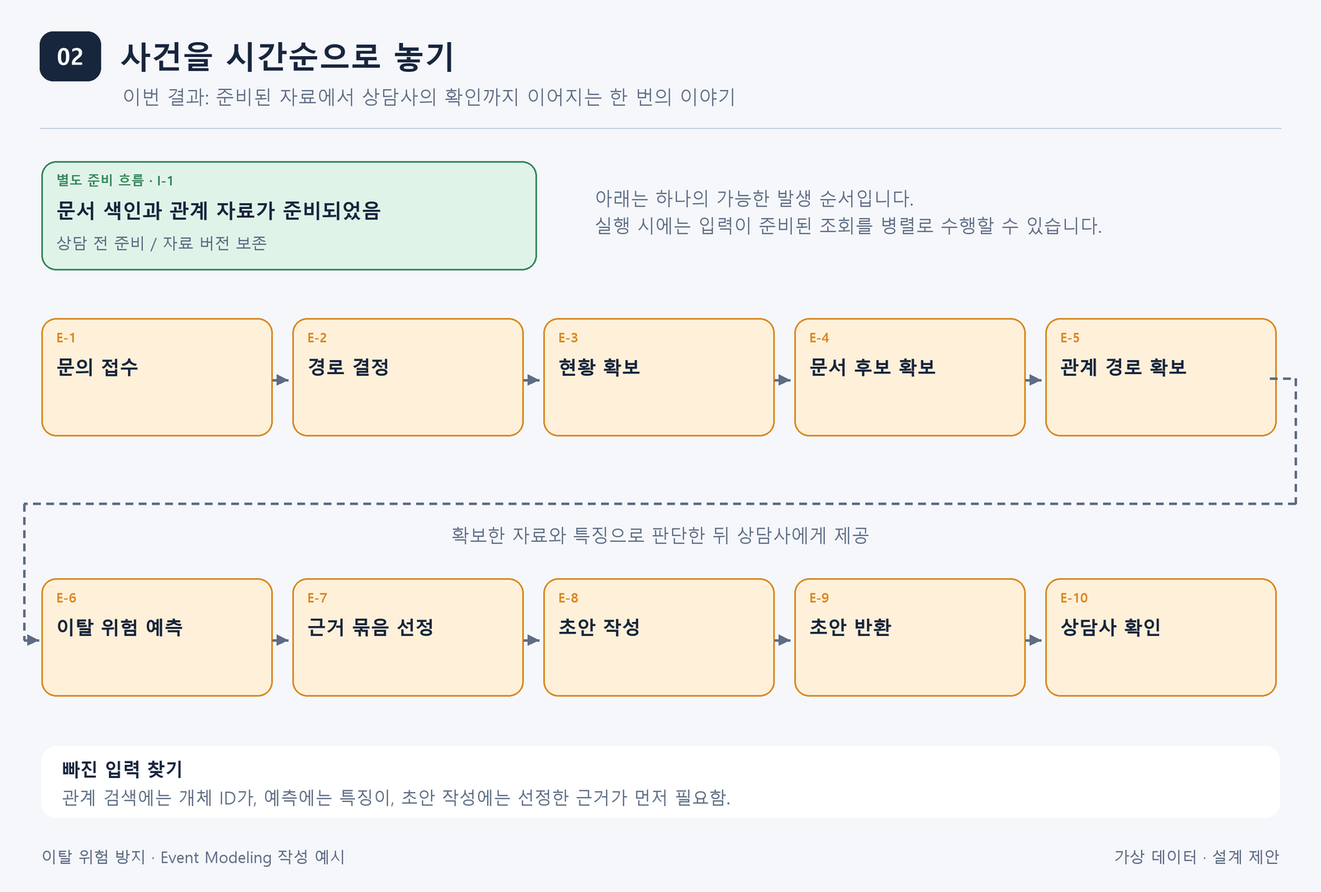
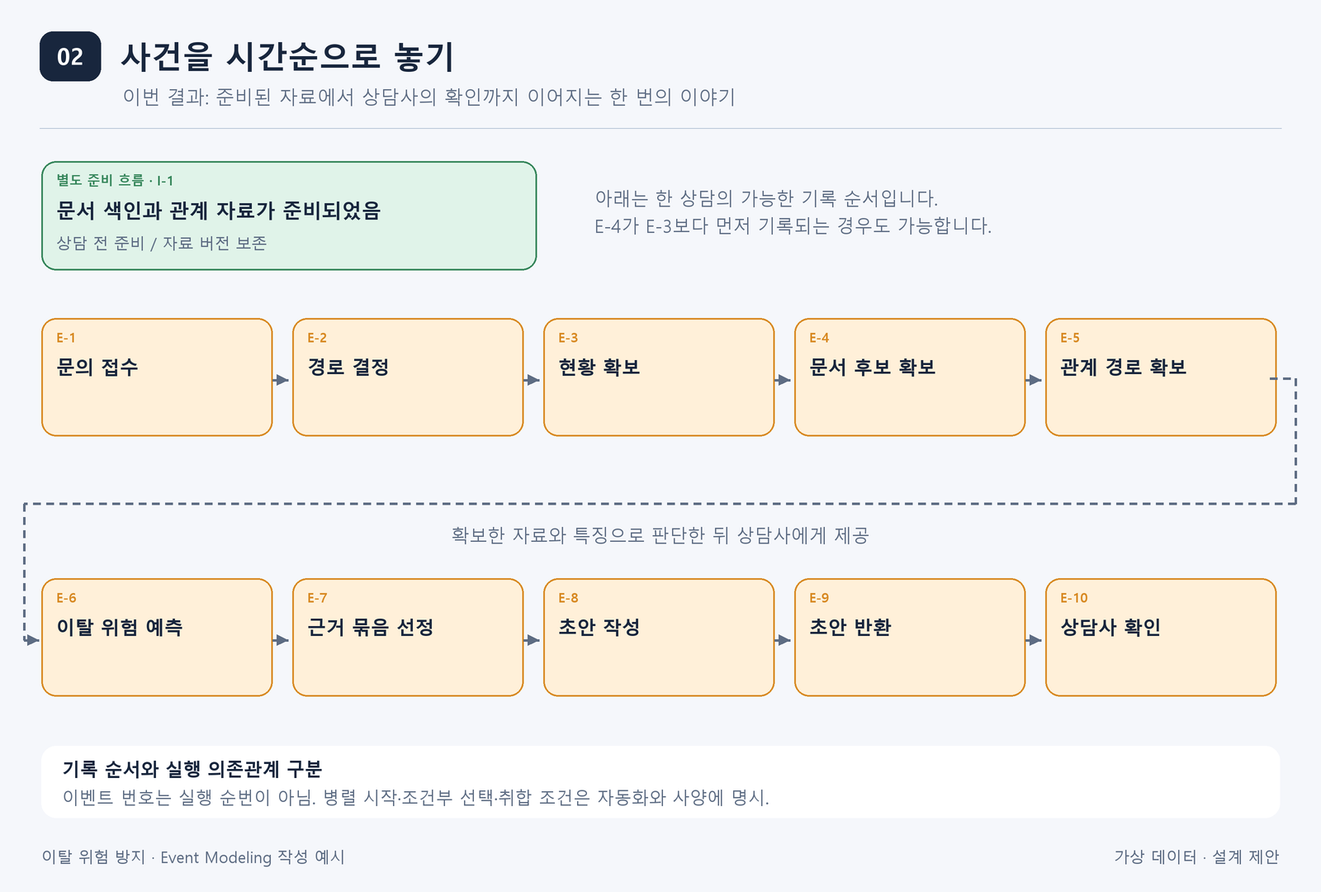
revise

Changed region(s): [[0.0312, 0.8556, 0.5625, 0.9167], [0.4375, 0.2139, 0.75, 0.275], [0.7812, 0.2444, 0.8125, 0.275]]

diff --git a/docs/plan/think/em/images/event-modeling-guide/render_node_discovery.py b/docs/plan/think/em/images/event-modeling-guide/render_node_discovery.py
@@ -65,7 +65,7 @@ def timeline():
     b = Board('02', '사건을 시간순으로 놓기', '이번 결과: 준비된 자료에서 상담사의 확인까지 이어지는 한 번의 이야기')
     box(b, 50, 195, 600, 132, '별도 준비 흐름 · I-1', '문서 색인과 관계 자료가 준비되었음',
         '상담 전 준비 / 자료 버전 보존', 'green', 24)
-    b.text(720, 225, '아래는 하나의 가능한 발생 순서입니다.\n실행 시에는 입력이 준비된 조회를 병렬로 수행할 수 있습니다.',
+    b.text(720, 225, '아래는 한 상담의 가능한 기록 순서입니다.\nE-4가 E-3보다 먼저 기록되는 경우도 가능합니다.',
            22, C['muted'])
     top = [('E-1', '문의 접수'), ('E-2', '경로 결정'), ('E-3', '현황 확보'),
            ('E-4', '문서 후보 확보'), ('E-5', '관계 경로 확보')]
@@ -80,7 +80,7 @@ def timeline():
     b.line([(1538, 458), (1569, 458), (1569, 610), (29, 610), (29, 775), (47, 775)],
            arrow=True, dashed=True)
     b.text(800, 633, '확보한 자료와 특징으로 판단한 뒤 상담사에게 제공', 22, C['muted'], anchor='center')
-    b.note('빠진 입력 찾기', '관계 검색에는 개체 ID가, 예측에는 특징이, 초안 작성에는 선정한 근거가 먼저 필요함.')
+    b.note('기록 순서와 실행 의존관계 구분', '이벤트 번호는 실행 순번이 아님. 병렬 시작·조건부 선택·취합 조건은 자동화와 사양에 명시.')
     b.save('node-02-timeline')
 
 
@@ -123,17 +123,17 @@ def routing():
     box(b, 50, 200, 1500, 135, 'U-1 · Human', '연회비 부담과 장보기 혜택을 확인하고 추가 소비 없는 초안을 요청',
         '회원 M-204 / 상담 S-104', 'white', 25)
     box(b, 450, 397, 700, 143, 'A-1 → C-2 · 생성형 AI + 규칙 기반 코드', '질문 해석 → 실행할 경로와 선택 이유 확정',
-        '권한과 입력 확인 / 필요한 경로만 선택', 'blue', 24)
+        '필수·보조 구분 / 필요한 입력·대기 시간도 저장', 'blue', 24)
     b.line([(800, 335), (800, 392)], arrow=True)
-    data = [('수치·상태', '정형검색', '카드·상품·사용액'),
-            ('조건·발언', '벡터검색', '혜택 안내·이전 상담'),
-            ('적용 문서 연결', '그래프검색', '고객→카드→상품→문서'),
-            ('고객 이탈 가능성', '예측형 AI', '이용 추이·보유·상담 이력')]
+    data = [('수치·상태 필요 → 선택', '정형검색 · C-3', '이번 질문: 필수'),
+            ('조건·발언 필요 → 선택', '벡터검색 · C-4', '이번 질문: 필수'),
+            ('문서 연결 확인 필요 → 선택', '그래프검색 · C-5', '이번 질문: 필수'),
+            ('이탈 판단 필요 → 선택', '예측형 AI · C-6', '이번 질문: 보조')]
     for i, (label, title, detail) in enumerate(data):
         x = 50 + i * 380
         b.line([(800, 540), (800, 578), (x + 175, 578), (x + 175, 626)], arrow=True)
         box(b, x, 632, 350, 184, label, title, detail, 'green' if i < 3 else 'purple', 25)
-    b.note('선택과 실행 순서는 별개', '정형·문서 조회는 병렬 가능. 관계와 예측은 필요한 ID·특징이 준비된 뒤 실행.')
+    b.note('다른 질문이면 다른 계획', '사용액만 물으면 C-3만 선택. 선택하지 않은 경로는 실행하지도, 취합할 때 기다리지도 않음.')
     b.save('node-03-routing')
 
 
@@ -147,9 +147,9 @@ def contracts():
          '고객 정보계 조회', 'E-3', '고객 현황 확보', 'CARD-204 / 420,000원'),
         ('문서 경로 선택', '질의·회원·접근 조건', 'C-4 · 규칙 기반 코드', '문서 후보를\n확보하라',
          '벡터 저장소 검색', 'E-4', '문서 후보 확보', 'GUIDE-DEMO / H-17'),
-        ('개체 ID 준비', '회원·카드·상품 ID', 'C-5 · 규칙 기반 코드', '관계 경로를\n확보하라',
+        ('선택 + C-3 ID 준비', '회원·카드·상품 ID', 'C-5 · 규칙 기반 코드', '관계 경로를\n확보하라',
          '관계 저장소 탐색', 'E-5', '관계 경로 확보', '상품→안내 문서 + 원천'),
-        ('예측 특징 준비', '이용 추이·보유·상담', 'C-6 · 예측형 AI', '고객 이탈 위험을\n예측하라',
+        ('선택 + 특징 준비', 'C-3 이용·보유·상담 집계', 'C-6 · 예측형 AI', '고객 이탈 위험을\n예측하라',
          'CHURN-DEMO/v1 추론', 'E-6', '고객 이탈 위험 예측', '90일 내 82% / 높음'),
     ]
     for x, d in zip(xs, columns):
@@ -162,8 +162,41 @@ def contracts():
     b.save('node-04-contracts')
 
 
+def execution():
+    b = Board('04', '병렬 실행과 조건부 분기',
+              '보조 실행 흐름도 · 화살표는 입력 의존관계 · 이번 복합 질문의 계획')
+    box(b, 50, 190, 1500, 125, '화면/자동화 · 문의 접수 / 담당자 유형: 규칙 기반 코드',
+        'E-2 실행 계획 확인 → 선택한 경로만 시작',
+        'C-3·C-4·C-5 필수 / C-6 보조 / 권한 확인 완료', 'blue', 26)
+    # Two independent starts; C-5 and C-6 depend only on C-3 inputs.
+    b.line([(460, 315), (460, 357)], arrow=True)
+    b.line([(1280, 315), (1280, 357)], arrow=True)
+    box(b, 50, 365, 800, 135, '고객 정보 · 규칙 기반 코드', 'C-3 고객 현황·예측 특징 확보',
+        '카드·상품 ID / 이용 추이·보유 기간·상담 정확 집계', 'green', 25)
+    box(b, 1060, 365, 490, 135, '지식·관계 · 규칙 기반 코드', 'C-4 문서 후보 검색',
+        '질문·회원·접근 조건으로 시작', 'green', 25)
+    b.line([(450, 500), (450, 530), (245, 530), (245, 554)], arrow=True)
+    b.line([(450, 530), (670, 530), (670, 554)], arrow=True)
+    box(b, 50, 560, 390, 158, '지식·관계 · 규칙 기반 코드', 'C-5 관계 검색',
+        'C-3의 카드·상품 ID 필요\nC-4 완료를 기다리지 않음', 'blue', 25)
+    box(b, 465, 560, 390, 158, '상담 판단 · 예측형 AI', 'C-6 이탈 예측',
+        'C-3의 정확한 특징 필요\nC-5 완료를 기다리지 않음', 'purple', 25)
+    box(b, 1060, 560, 490, 158, '대안 흐름 · 규칙 기반 코드', '실패했을 때의 선택',
+        '필수 경로 실패 → 초안 보류\n예측 실패·5초 초과 → 예측 보류', 'gray', 25)
+    # Explicit C-3 result contribution, alongside C-4/C-5/C-6 outcomes.
+    b.line([(850, 432), (955, 432), (955, 750), (810, 750)], arrow=False)
+    b.line([(1305, 500), (1580, 500), (1580, 750), (810, 750)], arrow=False)
+    b.line([(245, 718), (245, 750), (810, 750)], arrow=False)
+    b.line([(660, 718), (660, 750), (810, 750), (810, 760)], arrow=True)
+    box(b, 50, 765, 1500, 128, '상담 판단 · 규칙 기반 코드 / C-7 시작 조건',
+        '필수 C-3·C-4·C-5 완료 + 보조 C-6 완료 또는 보류 → 근거 선정 요청',
+        '선택하지 않은 경로는 대기 대상에서 제외 / 필수 근거가 없으면 선정 단계에서도 보류', 'orange', 25)
+    b.note('조건은 자동화와 사양에 연결', '타임라인의 대체물이 아님. 정상·예측 보류·필수 자료 실패는 각각 별도 시나리오로 확인.')
+    b.save('node-04-execution')
+
+
 def merge():
-    b = Board('05', '결과를 취합하고 화면에 연결하기', '이번 결과: 근거 묶음 → 저장된 초안 → 읽기 모델 → 같은 U-3 화면')
+    b = Board('05', '결과를 취합하고 화면에 연결하기', '정상 시나리오 · 선택한 필수 경로 완료 + 보조 예측 완료 또는 보류 후 C-7 시작')
     data = [('E-3 · 고객 사실', '전월 사용액 420,000원', '기준월 · 집계 정의'),
             ('E-4 · 문서·발언', '안내 문단 / H-17', '조건 확인 · 추가 소비 거절'),
             ('E-5 · 적용 문서 연결', 'P-01 → GUIDE-DEMO', '연결마다 원천 보존'),
@@ -183,7 +216,7 @@ def merge():
         box(b, x, 640, 480, 220, label, title, detail, ['blue', 'green', 'white'][i], 25)
         if i < 2:
             b.line([(x + 480, 748), (x + 505, 748)], arrow=True)
-    b.note('반환과 확인의 후속 연결', '서버 반환 완료 → C-9 → E-9   /   U-3 확인 버튼 → C-10 → E-10')
+    b.note('결과가 준비되지 않은 경우', '예측 보류는 값 없이 상태를 전달. 필수 근거 누락·충돌은 선정 보류 → U-3에 사유 표시, 초안 없음.')
     b.save('node-05-merge')
 
 
@@ -221,10 +254,14 @@ def boundaries():
 def specs():
     b = Board('07', '구체적인 예시로 사양 정하기', '이번 결과: 커맨드 또는 읽기 모델에 연결한 정상·예외 기준')
     data = [
-        ('C-7 · 근거 선정', '정상 취합', 'Given  현황·유효 문단·관계 경로\nWhen   근거 선정 요청\nThen   R-01 + 추가 소비 거절 제약'),
-        ('C-6 · 이탈 예측', '모델 연결 실패', 'Given  모델 미연결 또는 시간 초과\nWhen   고객 이탈 위험 예측 요청\nThen   확률·등급 없음 · 확인 필요'),
-        ('C-9 · 반환 이력', '같은 요청 재시도', 'Given  Q-301 반환 이력 한 건\nWhen   같은 완료 기록 재시도\nThen   E-9 한 건 · 새 E-8 없음'),
-        ('V-3 · 읽기 모델', '반환과 확인 구별', 'Given  E-9 있음 · E-10 없음\nThen   반환 완료 · 확인 전\n         확인 완료로 표시하지 않음'),
+        ('C-2 · 질문 해석·경로 선택', '사용액만 물으면 C-3만 선택',
+         'Given  지난달 사용액 질문\nWhen   경로 결정 요청\nThen   C-3 선택 / 나머지는 선택하지 않음'),
+        ('C-7 · 근거 선정', '완료 순서가 달라도 같은 근거',
+         'Given  같은 결과 · E-3/E-4 기록 순서만 다름\nWhen   취합 조건 충족 후 근거 선정 요청\nThen   같은 R-01 / 계획별 중복 선정 없음'),
+        ('C-6 · 보조 이탈 예측', '시간 초과이면 예측 보류',
+         'Given  예측 요청 후 5초 초과\nWhen   예측 대기 종료\nThen   보류 기록 / 확률·등급 없이 진행'),
+        ('V-3 · 읽기 모델', '필수 자료 실패이면 초안 보류',
+         'Given  C-5 실패 / 필수 자료 확보 중단\nThen   연결 확인 필요 표시\n         초안 없음 / E-7·E-8 없음'),
     ]
     for i, (label, title, detail) in enumerate(data):
         box(b, 50 + (i % 2) * 765, 215 + (i // 2) * 335, 735, 285,
@@ -234,6 +271,6 @@ def specs():
 
 
 if __name__ == '__main__':
-    for render in [scope, events, timeline, storyboard, routing, contracts, merge, boundaries, specs]:
+    for render in [scope, events, timeline, storyboard, routing, contracts, execution, merge, boundaries, specs]:
         render()
         print('rendered:', render.__name__)

diff --git a/docs/plan/think/em/이탈위험방지-이벤트모델링-작성가이드.md b/docs/plan/think/em/이탈위험방지-이벤트모델링-작성가이드.md
@@ -87,13 +87,21 @@
 
 ![사전 준비와 상담 이벤트의 시간표](./images/event-modeling-guide/node-02-timeline.png)
 
-위 그림의 중심은 **한 상담에서 실제로 일어났다고 가정한 사건의 순서**입니다.  
+위 그림의 중심은 **한 상담에서 실제로 일어났다고 가정한 사건의 기록 순서**입니다.  
 조회가 가능한 문서 색인과 관계 자료는 상담 전에 준비되어 있어야 하므로 위쪽에 따로 놓았습니다.
 
-시간표에 앞뒤로 놓인 작업을 구현에서도 모두 순차 실행해야 하는 것은 아닙니다.  
-예를 들어 고객 현황 조회와 문서 검색은 필요한 입력이 갖춰졌다면 함께 실행할 수 있습니다.  
-반면 관계 탐색에 카드와 상품 ID가 필요하다면 고객 현황을 확인한 뒤 실행해야 합니다.  
-예측에도 이용 추이·보유 기간·상담 이력 등 특징이 필요하므로 해당 자료가 먼저 준비되어야 합니다.
+**타임라인에 나란히 놓였다고 해서 작업을 하나씩 실행해야 하는 것은 아닙니다.**  
+E-3 다음에 E-4를 그렸지만, 문서 검색이 먼저 끝났다면 E-4가 E-3보다 앞에 놓일 수도 있습니다.  
+이벤트 번호는 카드를 찾기 위한 이름이며 실행 순서를 강제하는 번호가 아닙니다.
+
+Event Modeling에서도 병렬 실행과 조건부 분기를 다룹니다.  
+다만 기본 타임라인에는 한 번의 구체적인 이야기를 놓고, 다른 선택과 결과는 별도 시나리오로 설명합니다.  
+무엇을 동시에 시작할 수 있는지, 어떤 조건에서 다른 경로를 고르는지는 자동화의 시작 조건과 사양에 적습니다.  
+[공식 설명의 UX Concurrency 항목](https://eventmodeling.org/posts/what-is-event-modeling/)도  
+다른 실행 순서를 사양으로 표현하고 중요한 대안 흐름을 모델에 추가하도록 설명합니다.
+
+이번 사례의 경로 선택은 3단계에서, 병렬 실행과 입력 의존관계는 4단계에서 구체화하겠습니다.  
+결과를 어디까지 기다릴지는 5단계에서 정하고, 7단계에서는 조건을 바꾼 예시로 확인하겠습니다.
 
 이제 카드 사이에서 빠진 입력을 찾을 수 있습니다.  
 “관계 경로가 확보되었다”는 사실 앞에는 탐색할 개체가 있어야 하고,  
@@ -132,11 +140,21 @@
 
 질문을 해석하는 일은 생성형 AI가 도울 수 있습니다.  
 실행 가능한 경로와 권한, 필요한 입력을 확인해 계획을 확정하는 일은 규칙 기반 코드가 맡습니다.  
-계획에는 어떤 경로를 선택했는지뿐 아니라 **어떤 질문에 답하려고 선택했는지**도 남깁니다.
+계획에는 어떤 경로를 선택했는지뿐 아니라 **어떤 질문에 답하려고 선택했는지**도 남깁니다.  
+각 경로에 필요한 입력, 반드시 성공해야 하는지, 기다릴 시간도 함께 정합니다.
 
 여기서 라우팅은 네 경로 중 하나만 고르는 일이 아닙니다.  
 복합 질문에는 여러 경로를 배정하고, 간단한 질문에는 필요한 경로만 배정하는 것입니다.  
 관계가 단순한 카드·상품 조인으로 충분하다면 정형 조회에서 끝낼 수도 있습니다.
+
+예를 들어 사용액만 묻는 질문에는 C-3만 선택합니다. 이때 C-4·C-5·C-6은 ‘선택하지 않음’으로 남깁니다.  
+혜택 조건을 묻는다면 C-3과 C-4를 선택하고, 상품과 적용 문서의 연결 확인이 필요할 때 C-5도 선택합니다.  
+이탈 가능성을 묻거나 이번처럼 해지 상담을 지원하는 경우에는 C-6도 선택합니다.  
+예측을 선택했더라도 모델이나 입력을 사용할 수 없다면 예측을 보류하고 그 이유를 남깁니다.
+
+이번 복합 질문에서는 C-3·C-4·C-5를 **필수 경로**, C-6을 **보조 경로**로 정하겠습니다.  
+고객과 적용 문서를 확인하지 못하면 초안 작성을 멈추지만, 예측이 없어도 확보한 근거로 상담을 지원할 수 있다는 뜻입니다.  
+이 구분은 이 사례의 업무 규칙입니다. 예측값 자체를 요청한 질문에서는 예측이 필수 결과가 될 수 있습니다.
 
 ## 4단계. 시작 행동을 커맨드와 결과 이벤트로 연결합니다
 
@@ -145,7 +163,7 @@
 “고객 현황을 확보하라”, “관계 경로를 확보하라”처럼 작업 의도를 나타내는 카드가 커맨드입니다.
 
 먼저 시작 버튼 U-1을 문의 접수 C-1에 연결합니다. 회원·질문·상담사를 확인하고 저장하면 E-1이 남습니다.  
-이후 자동화가 경로 결정 C-2를 요청하고, 선택 경로와 이유를 상담에 저장하면 E-2가 남습니다.  
+이후 자동화가 경로 결정 C-2를 요청하고, 선택 경로와 이유·실행 조건을 상담에 저장하면 E-2가 남습니다.  
 아래 그림은 이 계획에 따라 실행할 네 가지 작업을 펼친 것입니다.
 
 ![자동화·커맨드·결과 이벤트로 이어지는 네 조회 슬라이스](./images/event-modeling-guide/node-04-contracts.png)
@@ -153,6 +171,7 @@
 정형 현황 확보 C-3은 회원 M-204와 조회 기준일을 받습니다.  
 규칙 기반 코드가 고객 정보계에 조회를 요청하고, 카드 CARD-204와 상품 P-01,  
 전월 승인 사용액 420,000원과 기준월을 받습니다.  
+예측도 선택했다면 이용 추이·보유 기간·기준일 이전의 해지 관련 상담 건수까지 함께 확보합니다.  
 이 결과를 상담에 사용할 현황으로 저장하면 “고객 현황이 확보되었음” E-3이 남습니다.
 
 **정형검색**은 정확한 조건으로 상태와 숫자를 확인하는 데 씁니다.  
@@ -181,7 +200,8 @@ P-01이 GUIDE-DEMO/v1을 적용 안내로 참조한다”는 경로를 반환합
 
 이탈 위험 예측 C-6에는 고객의 이용 추이, 카드 보유 기간, 해지 관련 상담 이력을 전달합니다.  
 이 예시에서는 “최근 6개월 월 승인액 감소”, “보유 기간 24개월”, “관련 문의 3회”라는 가상 특징을 사용합니다.  
-이용 추이와 보유 기간은 고객 정보계의 기준시점별 조회에서, 문의 횟수는 H-15·H-16·H-17의 집계에서 가져옵니다.  
+이 특징은 C-3에서 고객 정보계의 기준시점별 조회와 상담 기록의 정확한 집계로 준비합니다.  
+이 예시의 집계 대상은 2026-08의 H-15·H-16·H-17입니다. 벡터 검색의 상위 결과 개수를 문의 횟수로 쓰지는 않습니다.  
 모든 특징은 예측 기준일까지만의 자료로 구성하며 이후 해지 결과를 입력에 섞지 않습니다.
 
 예측형 AI는 향후 90일 이내 이탈 확률 82%와 위험 등급 ‘높음’을 반환한다고 가정하겠습니다.  
@@ -192,9 +212,30 @@ P-01이 GUIDE-DEMO/v1을 적용 안내로 참조한다”는 경로를 반환합
 이처럼 **하나의 시작 조건에서 요청과 결과까지 이어지는 연결**이 슬라이스입니다.  
 각 슬라이스에 입출력과 담당자 유형을 붙이면 내부에서 필요한 처리 책임도 구체적으로 드러납니다.
 
+### 어떤 작업을 함께 시작할 수 있을까요?
+
+이제 슬라이스의 시작 조건을 서로 비교해 보겠습니다.  
+C-3은 회원과 조회 기준일이 있으면 시작할 수 있고, C-4는 질문·회원·접근 조건이 있으면 시작할 수 있습니다.  
+따라서 권한 확인과 경로 결정이 끝나면 두 작업을 함께 시작할 수 있습니다.  
+이때 C-4는 상품이 확정되기 전의 후보 검색이며, 실제 적용 여부는 뒤에서 상품과 연결해 검사합니다.
+
+반면 C-5에는 C-3에서 얻은 카드·상품 ID가 필요합니다.  
+C-6도 C-3에서 준비한 예측 특징이 있어야 합니다. 따라서 두 작업은 각 입력이 준비된 뒤 시작합니다.  
+C-5와 C-6 사이에는 선후관계가 없으므로 함께 실행할 수 있고, 이때 C-4는 아직 검색 중일 수도 있습니다.
+
+![선택 경로의 병렬 실행과 입력 의존관계를 보여 주는 보조 흐름도](./images/event-modeling-guide/node-04-execution.png)
+
+이 그림은 2단계의 이벤트 타임라인을 보완하는 **실행 흐름도**입니다.  
+화살표는 사건의 기록 순서가 아니라 다음 작업에 필요한 입력과 시작 조건을 뜻합니다.  
+모든 작업에는 ‘계획에서 선택한 경로인가?’라는 조건이 먼저 붙습니다. 선택하지 않은 작업은 시작하지 않습니다.
+
+처음 모델링할 때는 각 자동화 옆에 다음 세 가지를 적으면 됩니다.  
+“언제 시작하는가?”, “어떤 입력을 기다리는가?”, “실패하면 어디로 이어지는가?”입니다.  
+이 질문에 답하면 병렬 실행과 조건부 분기도 화면·커맨드·이벤트의 연결 안에서 설명할 수 있습니다.
+
 ## 5단계. 결과를 취합하고 읽기 모델로 화면에 연결합니다
 
-네 경로의 결과가 모였습니다.  
+정상 시나리오에서는 선택한 네 경로의 결과가 모두 모였습니다.  
 그렇다면 이 내용을 모두 생성형 AI에 넘겨 “알아서 답해 달라”고 하면 될까요?  
 먼저 각 결과가 어떤 주장에 쓰일 수 있는지 구분해야 합니다.  
 숫자와 정책 문장, 관계 경로, 이탈 예측값은 서로 다른 일을 하기 때문입니다.
@@ -206,6 +247,28 @@ P-01이 GUIDE-DEMO/v1을 적용 안내로 참조한다”는 경로를 반환합
 상담사는 이를 고객의 실제 발언·상품 조건과 함께 살펴보며 대응 방향을 정합니다.
 
 ![네 결과를 취합해 초안을 만들고 읽기 모델로 화면에 연결하는 과정](./images/event-modeling-guide/node-05-merge.png)
+
+### 어디까지 기다린 뒤 취합할까요?
+
+결과 취합은 항상 네 경로를 기다리는 작업이 아닙니다.  
+먼저 E-2의 실행 계획을 읽고, **선택한 경로의 상태만** 확인합니다.  
+사용액 질문으로 C-3만 선택했다면 C-3의 결과가 준비되는 대로 취합할 수 있습니다.
+
+이번 복합 질문에서는 필수인 C-3·C-4·C-5가 완료되고, 보조인 C-6이 완료되거나 보류되면 C-7을 요청합니다.  
+예측이 실행 중이면 정해 둔 시간까지만 기다립니다. 설명용으로 경로별 대기 시간을 요청 후 5초로 정하겠습니다.  
+선행 입력이 필요한 경로의 시간은 그 경로를 실제 요청한 순간부터 셉니다. 이 값은 운영 목표에 맞춰 조정할 설계값입니다.
+
+예측이 실패하거나 5초를 넘기면 ‘예측이 보류되었음’과 사유를 남기고, 예측값 없이 취합을 계속합니다.  
+처음부터 예측을 선택하지 않은 상태와 선택했지만 예측할 수 없었던 상태는 구분해 표시합니다.  
+필수 경로가 실패하거나 시간을 넘기면 ‘필수 자료 확보가 중단되었음’을 남기고 초안 작성으로 넘어가지 않습니다.  
+선행 작업이 실패해 시작하지 못한 경로도 입력 부족 사유를 남겨, 계속 대기하는 상태로 두지 않습니다.
+
+조회가 정상 종료되어도 빈 결과이거나 적용 가능한 근거가 없을 수 있습니다.  
+C-7이 필수 근거의 누락·충돌을 확인하면 ‘근거 선정이 보류되었음’을 기록하고 상담사에게 확인할 항목을 보여 줍니다.  
+이때 U-3에는 초안 대신 보류 사유를 표시하며 E-7·E-8은 만들지 않습니다.
+
+동시에 도착한 결과 때문에 같은 취합을 두 번 시작하지 않도록 상담 ID와 실행 계획 버전으로 중복을 확인합니다.  
+대기 종료 후 늦게 도착한 결과는 이미 만든 초안에 몰래 섞지 않습니다. 재실행하면 새 계획 버전의 결과로 취합합니다.
 
 ### 어떤 결과를 함께 사용할까요?
 
@@ -226,7 +289,7 @@ P-01이 GUIDE-DEMO/v1을 적용 안내로 참조한다”는 경로를 반환합
 
 ### 취합한 결과가 어떻게 화면의 초안이 될까요?
 
-초안 작성 C-8은 선정된 근거 R-01과 이탈 예측 결과를 받습니다.  
+초안 작성 C-8은 선정된 근거 R-01과 이탈 예측 결과 또는 예측을 제공하지 못한 상태를 받습니다.  
 이탈 위험이 높게 예측되더라도 고객이 거절한 추가 소비를 권하지 않고, 고객의 부담을 줄일 상담 방향을 찾습니다.  
 생성형 AI가 문장을 만들고 규칙 기반 코드가 근거 연결을 검사한 뒤 DRAFT-01/v1로 저장합니다.  
 저장이 끝나면 “초안이 작성되었음” E-8이 남습니다.  
@@ -284,7 +347,17 @@ P-01이 GUIDE-DEMO/v1을 적용 안내로 참조한다”는 경로를 반환합
 이런 상황을 **Given · When · Then**, 즉 “어떤 상태에서, 무엇을 요청하면, 무엇이 남는가”로 적습니다.  
 사양 하나는 커맨드 또는 읽기 모델 하나에 연결합니다.
 
-![정상 취합·예측 실패·반환 재시도·읽기 모델의 사양](./images/event-modeling-guide/node-07-specs.png)
+![경로 선택·병렬 완료·예측 보류·필수 자료 실패의 사양](./images/event-modeling-guide/node-07-specs.png)
+
+먼저 경로 결정 C-2에 조건부 분기 예시를 적습니다.  
+“지난달 사용액”만 묻는 상태에서 경로 결정을 요청하면 C-3만 선택하고 나머지는 ‘선택하지 않음’이어야 합니다.  
+해지 상담과 혜택 확인을 함께 요청하면 C-3·C-4·C-5는 필수, C-6은 보조로 선택해야 합니다.  
+어떤 질문에서나 네 경로를 실행하는 것으로 사양을 적지 않습니다.
+
+병렬 작업은 완료 순서를 바꿔 확인합니다.  
+같은 계획과 결과에서 E-4가 E-3보다 먼저 남아도, E-3이 E-4보다 먼저 남아도 취합 조건은 같아야 합니다.  
+필수 경로가 아직 실행 중이면 C-7을 시작하지 않고, 취합 조건을 충족하면 같은 계획에 대해 한 번만 요청합니다.  
+이 조건은 C-7을 시작하는 자동화에 붙이고, C-7의 사양에서도 미완료 결과로 선정하지 않는지 확인합니다.
 
 근거 선정 C-7의 정상 사양은 이렇게 적을 수 있습니다.  
 고객 현황, 유효한 안내 문단과 상품 연결 경로가 준비되어 있을 때 근거 선정을 요청하면,  
@@ -295,6 +368,14 @@ P-01이 GUIDE-DEMO/v1을 적용 안내로 참조한다”는 경로를 반환합
 모델이 연결되지 않았거나 응답 시간이 초과되면 이탈 확률과 위험 등급은 비워 두고 “확인 필요”를 반환합니다.  
 상담사는 예측 없이 확보된 고객 현황과 근거로 초안을 검토합니다. 미확인을 저위험이나 고위험으로 표시하지 않습니다.  
 이 경우에는 이탈 예측 완료 이벤트 대신 예측 보류와 사유를 남깁니다.
+
+필수인 C-5가 실패하는 시나리오도 따라가 봅니다.  
+관계 조회가 실패하면 실패 사유를 기록하고, 자동화는 필수 자료 확보 중단을 기록합니다.  
+C-7·C-8은 시작하지 않으며 U-3에는 “상품과 안내 문서의 연결 확인 필요”를 표시합니다.  
+조회는 성공했지만 적용 문서 연결이 없다면 C-7에서 근거 선정을 보류합니다. 두 경우를 같은 성공으로 처리하지 않습니다.
+
+이처럼 중요한 대안은 **공통 시작 → 달라지는 조건 → 남는 사실 → 화면 결과** 순서로 따로 따라가 봅니다.  
+정상 시나리오의 E-6을 보류 시나리오에도 그대로 넣거나, 실패한 경로를 성공 이벤트로 표현하지 않습니다.
 
 반환 이력 C-9은 같은 요청 Q-301을 재시도해도 한 건이어야 합니다.  
 새 요청 Q-302로 같은 초안을 다시 반환했다면 반환 이력은 추가될 수 있습니다.  
@@ -324,14 +405,15 @@ P-01이 GUIDE-DEMO/v1을 적용 안내로 참조한다”는 경로를 반환합
 | 노드후보 | 설명 |
 |---|---|
 | 상담 요청·결과 제공 | U-1의 문의·권한과 확인 입력을 검사하고 U-2·U-3에 현황·초안·출처를 제공합니다. |
-| 질문 해석·라우팅 | C-2에서 질문을 확인 항목으로 나누고 실행할 검색·예측 경로와 순서를 정합니다. |
-| 정형정보 조회 | C-3에서 고객 정보계에 조회를 요청하고 상태·금액·기준시점을 공통 결과로 정리합니다. |
+| 질문 해석·라우팅 | C-2에서 질문별 경로와 선택 이유, 입력 의존관계·필수 여부·대기 시간을 정합니다. |
+| 실행 진행 관리 | 선택한 경로를 입력 준비에 맞춰 시작하고 완료·실패·시간 초과와 취합 시작 조건을 관리합니다. |
+| 정형정보 조회 | C-3에서 고객 현황과 필요한 예측 특징을 정확히 조회·집계하고 기준시점과 출처를 보존합니다. |
 | 문서 검색 | C-4에서 질문과 접근 조건으로 문서를 검색하고 발췌·원문 위치·버전을 반환합니다. |
 | 관계 검색 | C-5에서 개체 ID로 관계 탐색을 요청하고 경로와 각 연결의 원천을 정리합니다. |
 | 이탈 예측 요청·결과 처리 | C-6에서 이용·보유·상담 특징을 전달하고 이탈 확률·기간·판단 신호·모델 버전을 정리합니다. |
-| 근거 검증·결과 취합 | C-7에서 시점·권한·충돌을 검사하고 근거 R-01, 누락 항목과 이탈 예측 결과를 구성합니다. |
+| 근거 검증·결과 취합 | C-7에서 선택 경로의 결과·시점·권한·충돌을 검사하고 근거 선정 또는 보류를 결정합니다. |
 | 초안 작성·검사 | C-8에서 생성형 AI에 근거를 전달하고 문장별 출처를 검사해 버전 있는 초안을 저장합니다. |
-| 읽기 모델 구성 | V-3에서 저장된 초안·현황·근거·예측·확인 상태를 화면용 데이터로 구성합니다. |
+| 읽기 모델 구성 | V-3에서 초안·현황·근거·예측·확인 상태를 구성하고, 초안이 없으면 진행·보류 사유를 제공합니다. |
 | 상담 상태·이력 관리 | 선택 경로와 결과를 보존하고 C-9·C-10의 반환·확인 이력을 중복 없이 기록합니다. |
 | 지식 준비 | 사전 배치에서 문서를 정리·색인하고, 원천이 연결된 관계 자료를 준비합니다. |
 
